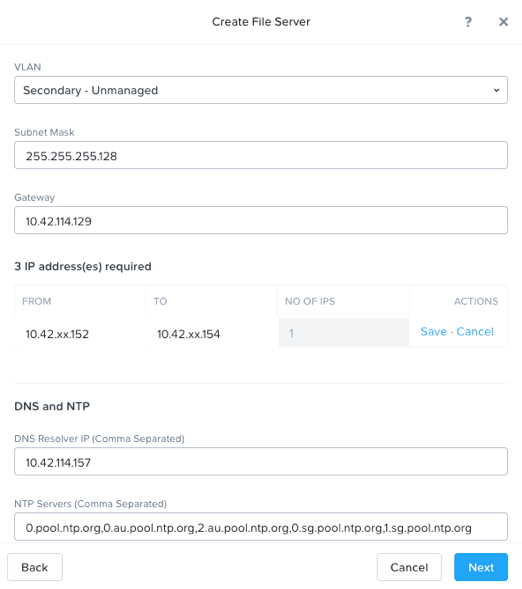
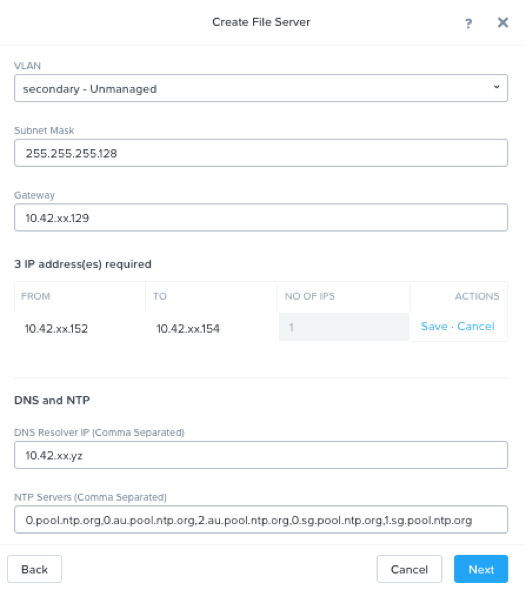
pc

diff --git a/files_deploy/files_deploy.rst b/files_deploy/files_deploy.rst
@@ -18,6 +18,11 @@ In following steps, you may replace xx with your assigned cluster ID
   
 Create AD VM for AD/LDAP connectivity
 +++++++++++++++++++++++++++++++++++++++++
+Open \https://*<POCxx-ABC Cluster IP>*:9440 (\https://10.42.xx.37:9440) in your browser and log in with the following credentials:
+
+- **Username** - admin
+- **Password** - techX2019!
+
 In Prism>Storage , create a Storage Container called **Images** if there is no existing one of that name.
 
 .. image:: images/image025.png
@@ -67,7 +72,7 @@ Deploy Acropolis File Services
 In **Prism > File Server**, click **+ File Server**.
 
 
-Firstly, download Files 3.2.0.2 package, click **Continue** to install File Services Software on POCxx.
+Firstly, download Files 3.5.1 package, click **Continue** to install File Services Software on POCxx.
 Secondly, add Data Services IP as 10.42.xx.38. Click Continue.
 
 
@@ -95,7 +100,7 @@ Fill out the following fields and click **Next**:
 - **Subnet Mask** – 255.255.255.128
 - **Gateway** – 10.42.xx.129
 - **IP** – **from** 10.42.xx.152 **to** 10.42.xx.154 (click **save** on the right)
-- **DNS** – 10.42.xx.157 (AD VM IP address)
+- **DNS** – 10.42.xx.yz (AD VM IP address)
 - **NTP** – 0.pool.ntp.org,0.au.pool.ntp.org,2.au.pool.ntp.org,0.sg.pool.ntp.org,1.sg.pool.ntp.org
 
 
@@ -147,15 +152,12 @@ Fill out the following fields and click **Create**:
 
 Monitor deployment progress in **Prism > Tasks**.
 
-
-.. image:: images/image017.png
+Upon completion, select the **AFS** server and click **Protect**. Click **+Add schedule** to make a snapshot schedule you plan.
 
 
 .. note::
 
   If you receive a warning regarding DNS record validation failure, this can be safely ignored. The shared cluster does not use the same DNS servers as your Files cluster, and as a result is unable to resolve the DNS entries created when deploying Files. We will use FSVM IP to access the File service from test Windows VM
-
-Upon completion, select the **AFS** server and click **Protect**. Click **+Add schedule** to make a snapshot schedule you plan.
 
 
 .. image:: images/image018.png

diff --git a/prism_central_deploy/prism_central_deploy.rst b/prism_central_deploy/prism_central_deploy.rst
@@ -1,0 +1,82 @@
+.. _prism_central_dashboards_reports:
+
+-------------------------------------
+Prism Central: Deploy
+-------------------------------------
+
+Overview
+++++++++
+
+This lab will introduce Prism Central’s One-Click deploy process
+
+Prism Central Deploy
++++++++++++++++++++++
+
+Open \https://*<POCxx-ABC Cluster IP>*:9440 (\https://10.42.xx.37:9440) in your browser and log in with the following credentials:
+
+- **Username** - admin
+- **Password** - techX2019!
+
+Navigate to **Home** page and click **Register or create new** in Prism Central widget.
+
+.. figure:: images/1.png
+
+Choose the first **Deploy** option.
+
+.. figure:: images/2.png
+
+Download the latest version and deploy 1-VM PC
+
+.. figure:: images/3.png
+
+Fill out the following fields, leave others as default and click **Deploy**:
+
+- **AHV Network** - Primary
+- **IP Address** - 10.42.xx.39
+- **Subnet Mask** - 255.255.255.128
+- **Default Gateway** - 10.42.xx.1
+- **DNS Address(Es)** - 10.42.196.10
+
+.. figure:: images/4.png
+
+.. figure:: images/5.png
+
+After Prism Central VM is successfully deployed, open \https://*<PC VM IP>*:9440 (\https://10.42.xx.39:9440) in your browser and log in with the following credentials:
+
+- **Username** - admin
+- **Password** - default with capital N
+- change password to **techX2019!**
+
+Prism Central Registration
++++++++++++++++++++++
+
+Go back to POCxx-ABC Cluster  (\https://10.42.xx.37:9440), navigate to **Home** page and click **Register or create new** in Prism Central widget. 
+
+.. figure:: images/1.png
+
+Choose the second **Connect** option. 
+
+.. figure:: images/2.png
+
+Click **Next**
+
+.. figure:: images/6.png
+
+Fill out the following fields, leave others as default and click **Connect**:
+
+- **Prism Central IP** - 10.42.xx.39
+- **Port** - 9440
+- **Username** - admin
+- **Password** - techX2019!
+
+.. figure:: images/7.png
+
+You will see an **OK** with PC's IP in Prism Central widget.
+
+.. figure:: images/8.png
+
+.. note::
+
+  Prism Central's default password must be changed before cluster registering PC
+
+
